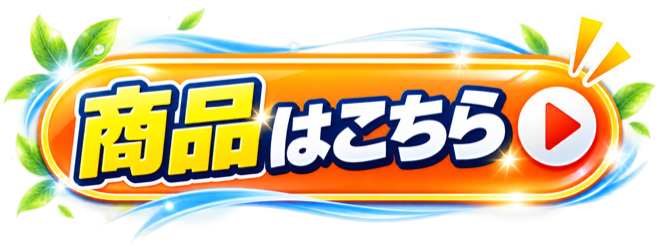
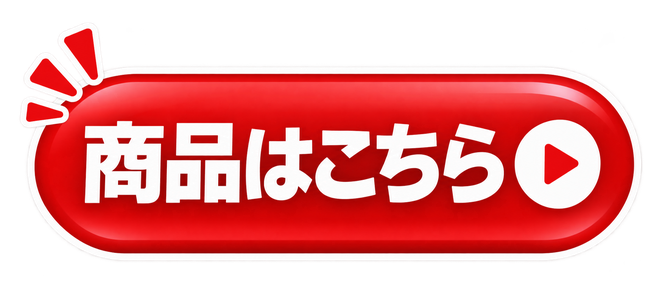
feat: swap CTA button to red design, refresh higher-res source images
Replace cta-button.png with the new red rounded-pill "商品はこちら"
button (autocropped to visible content, 660x285), and refresh
lp-01/05/05b/08 with their latest higher-resolution exports. Update
width/height attributes in index.html and shopify-snippet.html to
match.

diff --git a/index.html b/index.html
@@ -12,19 +12,19 @@
 <body>
 <div style="max-width:750px;margin:0 auto;padding:0;font-size:0;line-height:0;">
   <img src="assets/lp-01.png" alt="リカバリージュエリー登場！これを着けるだけで、肩・首まわりの毎日ケアをサポート" width="1254" height="1254" loading="eager" fetchpriority="high" style="display:block;width:100%;height:auto;margin:0;padding:0;border:0;">
-  <a href="#buy" style="display:block;text-align:center;background:#fff;padding:10px 0;line-height:0;"><img src="assets/cta-button.png" alt="商品はこちら" width="660" height="247" loading="lazy" style="display:inline-block;width:64%;max-width:480px;height:auto;margin:0;border:0;"></a>
+  <a href="#buy" style="display:block;text-align:center;background:#fff;padding:10px 0;line-height:0;"><img src="assets/cta-button.png" alt="商品はこちら" width="660" height="285" loading="lazy" style="display:inline-block;width:64%;max-width:480px;height:auto;margin:0;border:0;"></a>
   <img src="assets/lp-02.png" alt="原因不明の体調不良で苦しんでいる人に勧めたい！SEVENPLUS代表取締役の体験談" width="1087" height="1447" loading="lazy" style="display:block;width:100%;height:auto;margin:0;padding:0;border:0;">
   <img src="assets/lp-03.png" alt="こんなお悩みはありませんか？頭痛・肩こり・不眠" width="1254" height="1254" loading="lazy" style="display:block;width:100%;height:auto;margin:0;padding:0;border:0;">
-  <a href="#buy" style="display:block;text-align:center;background:#fff;padding:10px 0;line-height:0;"><img src="assets/cta-button.png" alt="商品はこちら" width="660" height="247" loading="lazy" style="display:inline-block;width:64%;max-width:480px;height:auto;margin:0;border:0;"></a>
+  <a href="#buy" style="display:block;text-align:center;background:#fff;padding:10px 0;line-height:0;"><img src="assets/cta-button.png" alt="商品はこちら" width="660" height="285" loading="lazy" style="display:inline-block;width:64%;max-width:480px;height:auto;margin:0;border:0;"></a>
   <img src="assets/lp-04.png" alt="セブンプラス リカバリージュエリーのここがヤバイ！" width="1672" height="941" loading="lazy" style="display:block;width:100%;height:auto;margin:0;padding:0;border:0;">
-  <img src="assets/lp-05.png" alt="首・肩を気遣う毎日に。こだわりの4つの素材 セラミックパウダー・トルマリン・ゲルマニウム・テラヘルツ素材" width="750" height="1000" loading="lazy" style="display:block;width:100%;height:auto;margin:0;padding:0;border:0;">
-  <img src="assets/lp-05b.png" alt="着用シーン いつでも、どこでも。毎日に寄り添うジュエリー。デスクワーク・おうち時間・お出かけ・家事の合間に" width="750" height="1000" loading="lazy" style="display:block;width:100%;height:auto;margin:0;padding:0;border:0;">
-  <a href="#buy" style="display:block;text-align:center;background:#fff;padding:10px 0;line-height:0;"><img src="assets/cta-button.png" alt="商品はこちら" width="660" height="247" loading="lazy" style="display:inline-block;width:64%;max-width:480px;height:auto;margin:0;border:0;"></a>
+  <img src="assets/lp-05.png" alt="首・肩を気遣う毎日に。こだわりの4つの素材 セラミックパウダー・トルマリン・ゲルマニウム・テラヘルツ素材" width="1086" height="1448" loading="lazy" style="display:block;width:100%;height:auto;margin:0;padding:0;border:0;">
+  <img src="assets/lp-05b.png" alt="着用シーン いつでも、どこでも。毎日に寄り添うジュエリー。デスクワーク・おうち時間・お出かけ・家事の合間に" width="1086" height="1448" loading="lazy" style="display:block;width:100%;height:auto;margin:0;padding:0;border:0;">
+  <a href="#buy" style="display:block;text-align:center;background:#fff;padding:10px 0;line-height:0;"><img src="assets/cta-button.png" alt="商品はこちら" width="660" height="285" loading="lazy" style="display:inline-block;width:64%;max-width:480px;height:auto;margin:0;border:0;"></a>
   <img src="assets/lp-06.png" alt="セブンプラス リカバリージュエリー その秘密は…？" width="1672" height="941" loading="lazy" style="display:block;width:100%;height:auto;margin:0;padding:0;border:0;">
   <img src="assets/lp-07.png" alt="さらにプラス機能！電磁波に着目したEMCシートを内蔵" width="1086" height="1448" loading="lazy" style="display:block;width:100%;height:auto;margin:0;padding:0;border:0;">
-  <a href="#buy" style="display:block;text-align:center;background:#fff;padding:10px 0;line-height:0;"><img src="assets/cta-button.png" alt="商品はこちら" width="660" height="247" loading="lazy" style="display:inline-block;width:64%;max-width:480px;height:auto;margin:0;border:0;"></a>
-  <img src="assets/lp-08.png" alt="ご愛用者様の声 着用モニター満足度92.6パーセント" width="1086" height="1448" loading="lazy" style="display:block;width:100%;height:auto;margin:0;padding:0;border:0;">
-  <a href="#buy" style="display:block;text-align:center;background:#fff;padding:10px 0;line-height:0;"><img src="assets/cta-button.png" alt="商品はこちら" width="660" height="247" loading="lazy" style="display:inline-block;width:64%;max-width:480px;height:auto;margin:0;border:0;"></a>
+  <a href="#buy" style="display:block;text-align:center;background:#fff;padding:10px 0;line-height:0;"><img src="assets/cta-button.png" alt="商品はこちら" width="660" height="285" loading="lazy" style="display:inline-block;width:64%;max-width:480px;height:auto;margin:0;border:0;"></a>
+  <img src="assets/lp-08.png" alt="ご愛用者様の声 着用モニター満足度92.6パーセント" width="1087" height="1447" loading="lazy" style="display:block;width:100%;height:auto;margin:0;padding:0;border:0;">
+  <a href="#buy" style="display:block;text-align:center;background:#fff;padding:10px 0;line-height:0;"><img src="assets/cta-button.png" alt="商品はこちら" width="660" height="285" loading="lazy" style="display:inline-block;width:64%;max-width:480px;height:auto;margin:0;border:0;"></a>
   <img src="assets/lp-09.png" alt="身につけるだけで、心も身体も、心地よく。" width="1254" height="1254" loading="lazy" style="display:block;width:100%;height:auto;margin:0;padding:0;border:0;">
 </div>
 </body>

diff --git a/shopify-snippet.html b/shopify-snippet.html
@@ -1,17 +1,17 @@
 <div style="max-width:750px;margin:0 auto;padding:0;font-size:0;line-height:0;">
   <img src="lp-01.png" alt="リカバリージュエリー登場！これを着けるだけで、肩・首まわりの毎日ケアをサポート" width="1254" height="1254" loading="eager" fetchpriority="high" style="display:block;width:100%;height:auto;margin:0;padding:0;border:0;">
-  <a href="#buy" style="display:block;text-align:center;background:#fff;padding:10px 0;line-height:0;"><img src="cta-button.png" alt="商品はこちら" width="660" height="247" loading="lazy" style="display:inline-block;width:64%;max-width:480px;height:auto;margin:0;border:0;"></a>
+  <a href="#buy" style="display:block;text-align:center;background:#fff;padding:10px 0;line-height:0;"><img src="cta-button.png" alt="商品はこちら" width="660" height="285" loading="lazy" style="display:inline-block;width:64%;max-width:480px;height:auto;margin:0;border:0;"></a>
   <img src="lp-02.png" alt="原因不明の体調不良で苦しんでいる人に勧めたい！SEVENPLUS代表取締役の体験談" width="1087" height="1447" loading="lazy" style="display:block;width:100%;height:auto;margin:0;padding:0;border:0;">
   <img src="lp-03.png" alt="こんなお悩みはありませんか？頭痛・肩こり・不眠" width="1254" height="1254" loading="lazy" style="display:block;width:100%;height:auto;margin:0;padding:0;border:0;">
-  <a href="#buy" style="display:block;text-align:center;background:#fff;padding:10px 0;line-height:0;"><img src="cta-button.png" alt="商品はこちら" width="660" height="247" loading="lazy" style="display:inline-block;width:64%;max-width:480px;height:auto;margin:0;border:0;"></a>
+  <a href="#buy" style="display:block;text-align:center;background:#fff;padding:10px 0;line-height:0;"><img src="cta-button.png" alt="商品はこちら" width="660" height="285" loading="lazy" style="display:inline-block;width:64%;max-width:480px;height:auto;margin:0;border:0;"></a>
   <img src="lp-04.png" alt="セブンプラス リカバリージュエリーのここがヤバイ！" width="1672" height="941" loading="lazy" style="display:block;width:100%;height:auto;margin:0;padding:0;border:0;">
-  <img src="lp-05.png" alt="首・肩を気遣う毎日に。こだわりの4つの素材 セラミックパウダー・トルマリン・ゲルマニウム・テラヘルツ素材" width="750" height="1000" loading="lazy" style="display:block;width:100%;height:auto;margin:0;padding:0;border:0;">
-  <img src="lp-05b.png" alt="着用シーン いつでも、どこでも。毎日に寄り添うジュエリー。デスクワーク・おうち時間・お出かけ・家事の合間に" width="750" height="1000" loading="lazy" style="display:block;width:100%;height:auto;margin:0;padding:0;border:0;">
-  <a href="#buy" style="display:block;text-align:center;background:#fff;padding:10px 0;line-height:0;"><img src="cta-button.png" alt="商品はこちら" width="660" height="247" loading="lazy" style="display:inline-block;width:64%;max-width:480px;height:auto;margin:0;border:0;"></a>
+  <img src="lp-05.png" alt="首・肩を気遣う毎日に。こだわりの4つの素材 セラミックパウダー・トルマリン・ゲルマニウム・テラヘルツ素材" width="1086" height="1448" loading="lazy" style="display:block;width:100%;height:auto;margin:0;padding:0;border:0;">
+  <img src="lp-05b.png" alt="着用シーン いつでも、どこでも。毎日に寄り添うジュエリー。デスクワーク・おうち時間・お出かけ・家事の合間に" width="1086" height="1448" loading="lazy" style="display:block;width:100%;height:auto;margin:0;padding:0;border:0;">
+  <a href="#buy" style="display:block;text-align:center;background:#fff;padding:10px 0;line-height:0;"><img src="cta-button.png" alt="商品はこちら" width="660" height="285" loading="lazy" style="display:inline-block;width:64%;max-width:480px;height:auto;margin:0;border:0;"></a>
   <img src="lp-06.png" alt="セブンプラス リカバリージュエリー その秘密は…？" width="1672" height="941" loading="lazy" style="display:block;width:100%;height:auto;margin:0;padding:0;border:0;">
   <img src="lp-07.png" alt="さらにプラス機能！電磁波に着目したEMCシートを内蔵" width="1086" height="1448" loading="lazy" style="display:block;width:100%;height:auto;margin:0;padding:0;border:0;">
-  <a href="#buy" style="display:block;text-align:center;background:#fff;padding:10px 0;line-height:0;"><img src="cta-button.png" alt="商品はこちら" width="660" height="247" loading="lazy" style="display:inline-block;width:64%;max-width:480px;height:auto;margin:0;border:0;"></a>
-  <img src="lp-08.png" alt="ご愛用者様の声 着用モニター満足度92.6パーセント" width="1086" height="1448" loading="lazy" style="display:block;width:100%;height:auto;margin:0;padding:0;border:0;">
-  <a href="#buy" style="display:block;text-align:center;background:#fff;padding:10px 0;line-height:0;"><img src="cta-button.png" alt="商品はこちら" width="660" height="247" loading="lazy" style="display:inline-block;width:64%;max-width:480px;height:auto;margin:0;border:0;"></a>
+  <a href="#buy" style="display:block;text-align:center;background:#fff;padding:10px 0;line-height:0;"><img src="cta-button.png" alt="商品はこちら" width="660" height="285" loading="lazy" style="display:inline-block;width:64%;max-width:480px;height:auto;margin:0;border:0;"></a>
+  <img src="lp-08.png" alt="ご愛用者様の声 着用モニター満足度92.6パーセント" width="1087" height="1447" loading="lazy" style="display:block;width:100%;height:auto;margin:0;padding:0;border:0;">
+  <a href="#buy" style="display:block;text-align:center;background:#fff;padding:10px 0;line-height:0;"><img src="cta-button.png" alt="商品はこちら" width="660" height="285" loading="lazy" style="display:inline-block;width:64%;max-width:480px;height:auto;margin:0;border:0;"></a>
   <img src="lp-09.png" alt="身につけるだけで、心も身体も、心地よく。" width="1254" height="1254" loading="lazy" style="display:block;width:100%;height:auto;margin:0;padding:0;border:0;">
 </div>

diff --git a/README.md b/README.md
@@ -18,9 +18,10 @@ product, built to paste directly into a Shopify product description / page edito
 - `assets/lp-09.png` — closing tagline section ("身につけるだけで、心も身体も、
   心地よく。"), placed as the final content section before the last CTA.
   Kept as PNG (alpha channel).
-- `assets/cta-button.png` — the repeated CTA button ("商品はこちら"), cropped
-  tight to its visible content and resized to 660px wide, alpha preserved
-  (kept as PNG, not converted to JPEG).
+- `assets/cta-button.png` — the repeated CTA button ("商品はこちら"), red
+  rounded-pill style with play-arrow icon, cropped tight to its visible
+  content and resized to 660px wide (285px tall), alpha preserved (kept as
+  PNG, not converted to JPEG).
 
 ## How to publish on Shopify
 
